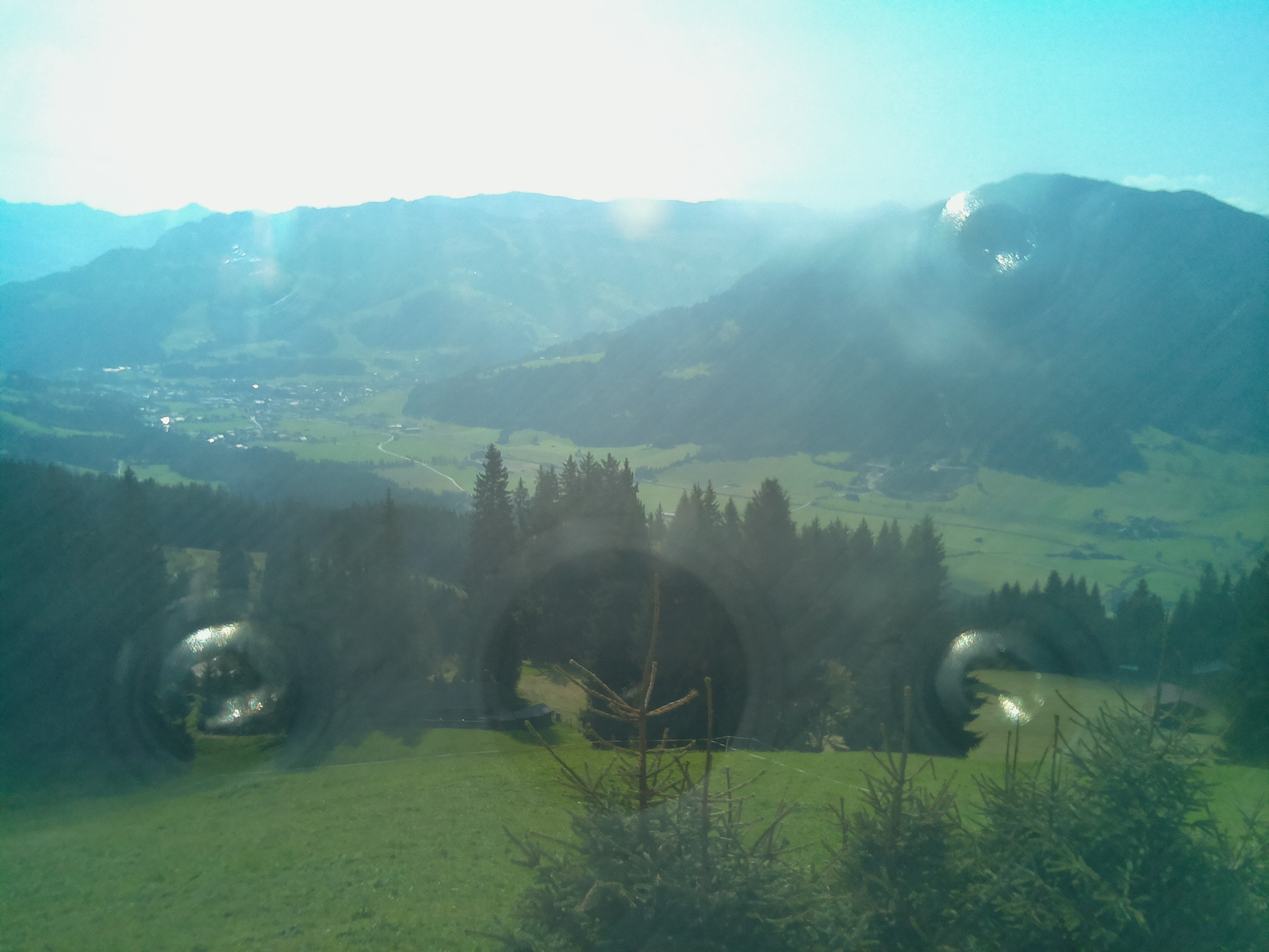
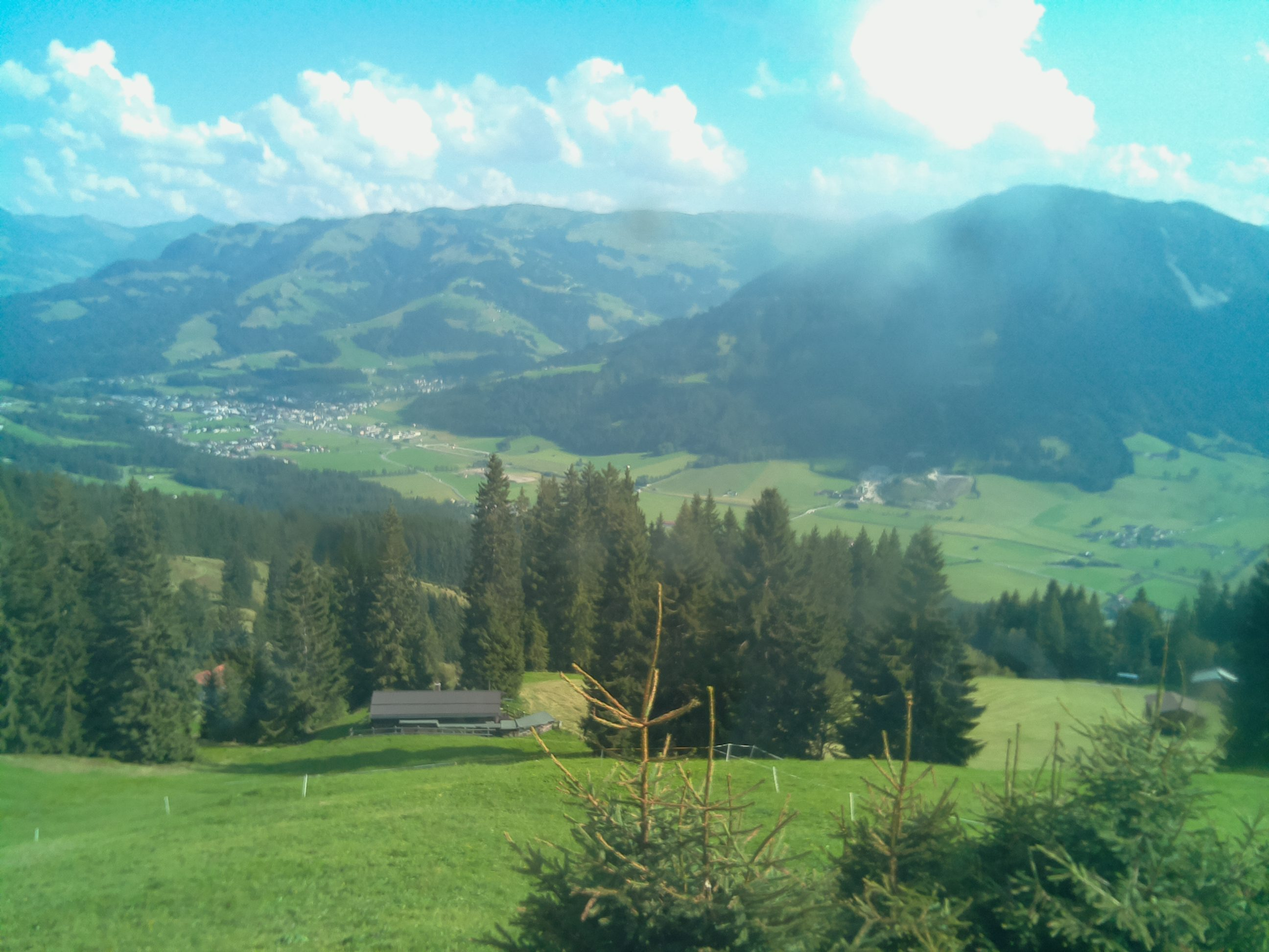
I'm a bot beep boop

diff --git a/resources/huette.md b/resources/huette.md
@@ -6,13 +6,13 @@ image: '/assets/img/'
 description: 'Live image from the Austrian alps'
 twitter_text: ' '
 ---
-## Latest image from 09 September 2021 at 10:11
+## Latest image from 09 September 2021 at 16:11
 <div class="huette">
   <div class="huette-image">
     <img src="{{ "/assets/img/huette.jpg" | prepend: site.baseurl }}">
   </div>
   <div class="huette-text">
-        <h2>Current Temperature: 20.062°C</h2>
+        <h2>Current Temperature: 19.625°C</h2>
         <p>A solar powered raspberry pi left alone in the wild is sending daily images and temperature data to this website. It should give you an impression about the current weather in the "Brixental".</p>
 
   </div>

diff --git a/rpi-script/huette.md b/rpi-script/huette.md
@@ -6,13 +6,13 @@ image: '/assets/img/'
 description: 'Live image from the Austrian alps'
 twitter_text: ' '
 ---
-## Latest image from 09 September 2021 at 10:11
+## Latest image from 09 September 2021 at 16:11
 <div class="huette">
   <div class="huette-image">
     <img src="{{ "/assets/img/huette.jpg" | prepend: site.baseurl }}">
   </div>
   <div class="huette-text">
-        <h2>Current Temperature: 20.062°C</h2>
+        <h2>Current Temperature: 19.625°C</h2>
         <p>A solar powered raspberry pi left alone in the wild is sending daily images and temperature data to this website. It should give you an impression about the current weather in the "Brixental".</p>
 
   </div>
